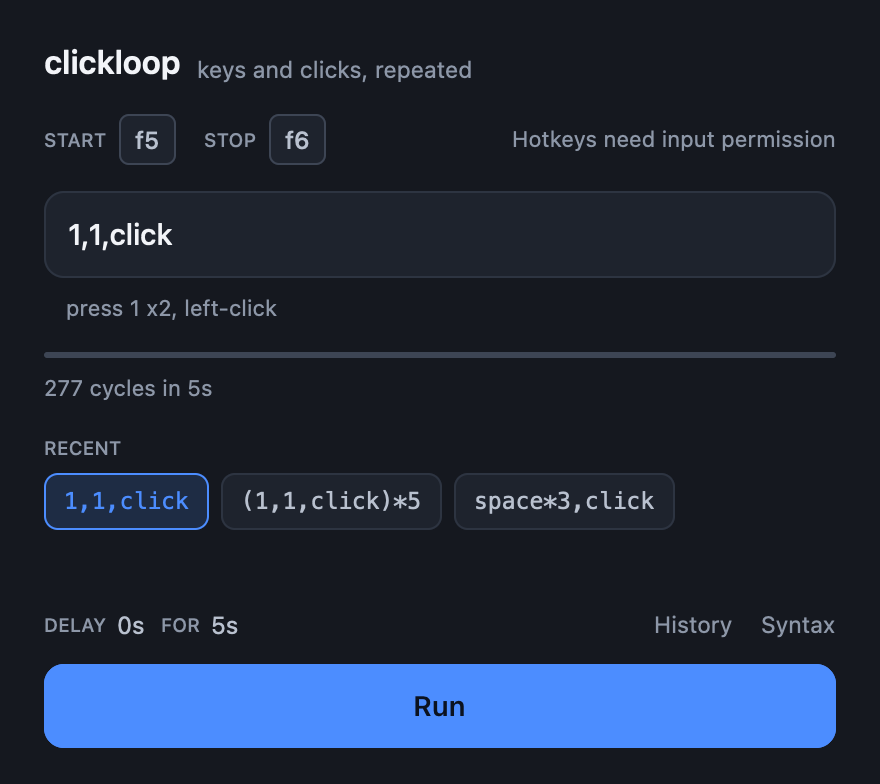
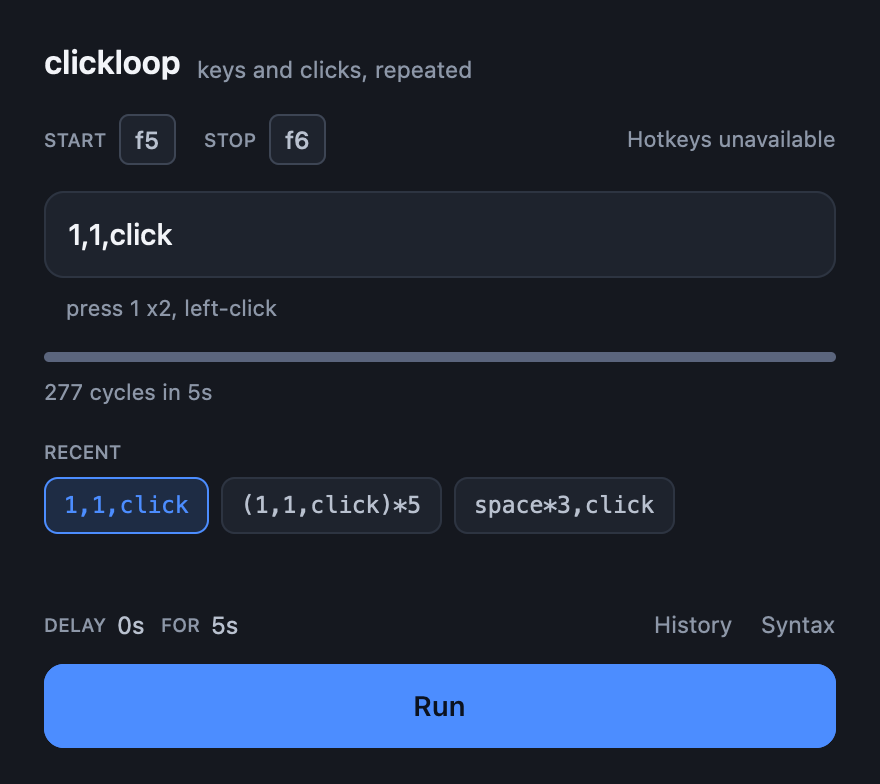
Window: the accent edit had not landed, plus track and fixture fixes
A second review of the render found the Stop button still drawn as a faint
outline. It was: the earlier edit inserted a comment between two builder calls
and the anchor never matched, so bg/text_color stayed on the old branch while the
commit message said otherwise. Stop now really takes the accent (button fill
sampled at #4c8dff) and Run dims.

- The progress track is #5b657d, 3.05:1 against the page, meeting the WCAG
  non-text minimum; it was 2.34:1. The bar is 5px tall instead of 3, because a
  hairline cannot show a proportion.
- The caption keeps its unit: "46 of 114 cycles", not a bare "of 114".
- "Hotkeys need input permission" sat on every screen as permanent chrome. It
  now reads "Hotkeys unavailable" and only when the listener is actually down.
- The screenshot fixtures invented 148 cycles in 10.2s against a 0.20s delay,
  arithmetic the engine could not produce and a reviewer rightly questioned.
  They are 46 of 114 at 12.1s now, and the painted bar measures 0.40 against
  those numbers.

All five states fit the frame. 19 window tests pass.

diff --git a/gui/src/view.rs b/gui/src/view.rs
@@ -390,10 +390,13 @@ impl ClickloopWindow {
         // listener is up. Keep the names apart.
         let running = self.live();
         let listening = self.router.is_live();
+        // Only a real absence is worth saying. On macOS the OS can grant a tap
+        // that still delivers nothing without Accessibility, so the honest
+        // message is about the listener, not about a keypress.
         let hint = match capturing {
             Some(Slot::Start) => "Press any key for start",
             Some(Slot::Stop) => "Press any key for stop",
-            None if !listening => "Hotkeys need input permission",
+            None if !listening => "Hotkeys unavailable",
             None => "",
         };
 
@@ -471,7 +474,7 @@ impl ClickloopWindow {
                 .and_then(|run| run.progress.remaining())
                 .map(format_duration);
             match (frozen, left) {
-                (n, Some(left)) if n > 0 => format!("{done} of {n} · {left} left"),
+                (n, Some(left)) if n > 0 => format!("{done} of {n} cycles · {left} left"),
                 (n, None) if n > 0 => {
                     format!("{done} of {n} · {}", format_duration(self.elapsed()))
                 }
@@ -615,14 +618,12 @@ impl ClickloopWindow {
                     .items_center()
                     .justify_center()
                     .rounded(px(RADIUS_CARD))
-                    .bg(if live { theme.surface } else { theme.accent })
+                    // One live action. During a run that is Stop, so it takes
+                    // the accent; Run is the accent when nothing is running.
+                    .bg(theme.accent)
                     .border_1()
-                    .border_color(if live {
-                        theme.line_strong
-                    } else {
-                        theme.accent
-                    })
-                    .text_color(if live { theme.text } else { theme.on_accent })
+                    .border_color(theme.accent)
+                    .text_color(theme.on_accent)
                     .text_size(px(14.0))
                     .font_weight(gpui::FontWeight::SEMIBOLD)
                     .cursor_pointer()
@@ -947,7 +948,7 @@ fn progress_bar(theme: &Theme, fraction: f32, live: bool, ok: bool) -> impl Into
     };
     div()
         .w_full()
-        .h(px(3.0))
+        .h(px(5.0))
         .rounded_full()
         .bg(theme.track)
         .overflow_hidden()

diff --git a/gui/examples/screenshot.rs b/gui/examples/screenshot.rs
@@ -54,11 +54,15 @@ fn main() {
             form.actions = "(1,1,click)*5".to_string();
             form.delay = 0.2;
             form.duration = 30.0;
+            // Consistent numbers: with a 0.20s delay each cycle is about
+            // 0.263s, so roughly 114 fit in 30 seconds. At 12s in, about 46
+            // cycles are done. The fixture must not show arithmetic the engine
+            // could not produce.
             Some((
                 state::Phase::Running,
-                148u64,
-                Duration::from_millis(10200),
-                Some((437u64, Duration::from_secs(30))),
+                46u64,
+                Duration::from_millis(12100),
+                Some((114u64, Duration::from_secs(30))),
                 None,
                 None,
             ))
@@ -69,9 +73,9 @@ fn main() {
             form.duration = 30.0;
             Some((
                 state::Phase::Stopped,
-                437,
+                114,
                 Duration::from_secs(30),
-                Some((437, Duration::from_secs(30))),
+                Some((114, Duration::from_secs(30))),
                 Some("cycle count reached".to_string()),
                 None,
             ))

diff --git a/gui/src/theme.rs b/gui/src/theme.rs
@@ -54,7 +54,7 @@ impl Theme {
             on_accent: rgb(0x0b1220),
             warn: rgb(0xf0b64a),
             danger: rgb(0xff7d72),
-            track: rgb(0x3d4554),
+            track: rgb(0x5b657d),
         }
     }
 }
